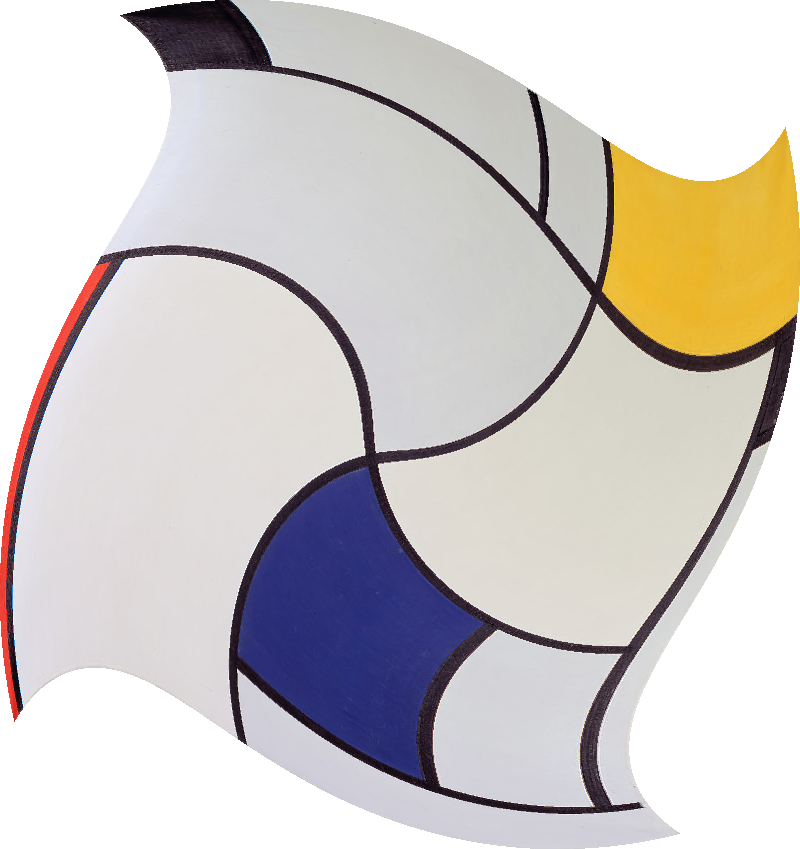
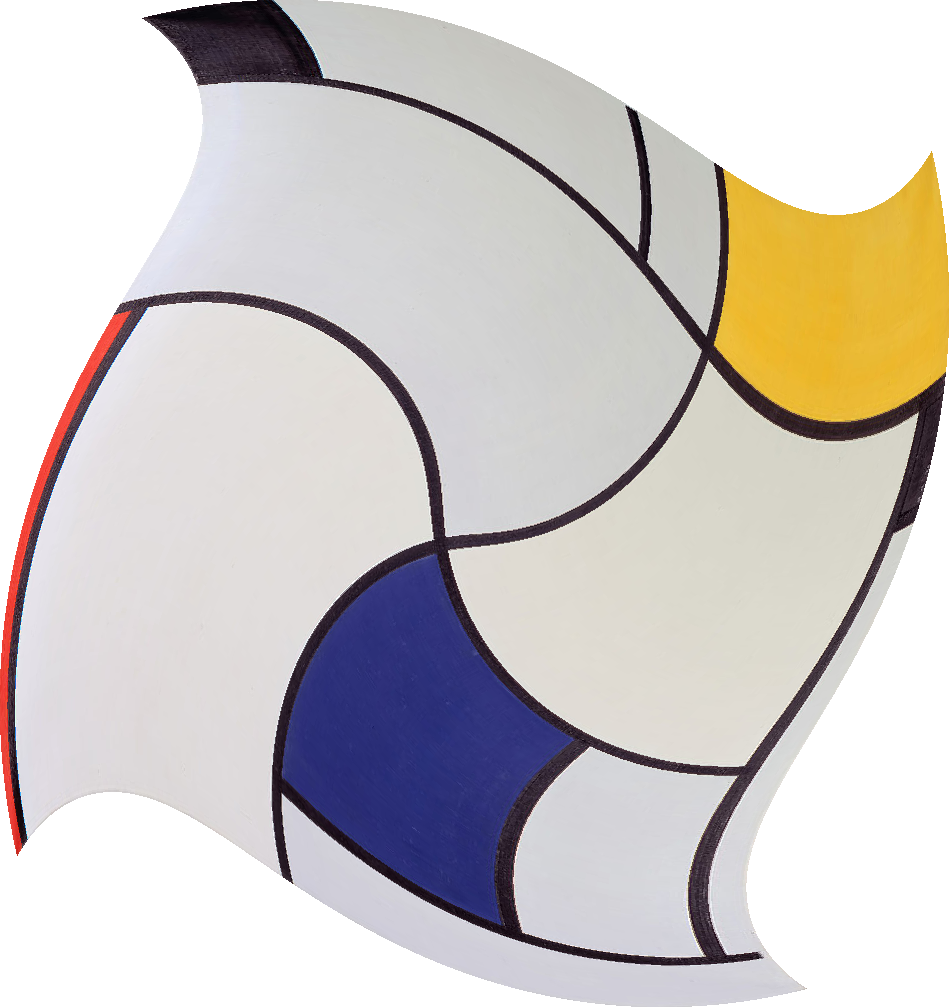
Modify wrapped image size.

diff --git a/wrap/wrap.cpp b/wrap/wrap.cpp
@@ -4,7 +4,6 @@ The program provide two types of wrap operation:
   mode 1 - stretch image: magnify the right side and minify the left side
   mode 2 - twirl image: increase the wrap parameter to enhance image twirling
 The default mode is twirl image with wrap parameter 2.
-The wrapped image size keep the same with the original one.
 
 Usage: 
 wrap input_image_name [output_image_name] [mode] [wrap_parameter]
@@ -51,17 +50,7 @@ wrap image
   mode 2 - twirl image
 */
 void wrapimage(int mode, double parameter)
-{
-  // xres_out = xres * pow(2.0, 0.5);
-  // yres_out = yres * pow(2.0, 0.5);
-  xres_out = xres;
-  yres_out = yres;  
-  
-  // allocate memory for output pixmap: output image is 4 channels
-  outputpixmap = new unsigned char [xres_out * yres_out * 4];
-  // fill the output image with a clear transparent color(0, 0, 0, 0)
-  for (int i = 0; i < xres_out * yres_out * 4; i++) {outputpixmap[i] = 0;} 
-  
+{ 
   // twirl image transformation parameters
   double twirl_f = parameter;
 
@@ -86,6 +75,8 @@ void wrapimage(int mode, double parameter)
       switch (mode)
       {
         case 1:
+          scale_factor_x = 1;
+          scale_factor_y = 1;
           break;
         case 2:
           // wrap function 2: twirl image
@@ -109,6 +100,14 @@ void wrapimage(int mode, double parameter)
   scale_factor_x = x_max - x_min;
   scale_factor_y = y_max - y_min;
 
+  // modify the output image size
+  xres_out = xres * scale_factor_x;
+  yres_out = yres * scale_factor_y;
+  // allocate memory for output pixmap: output image is 4 channels
+  outputpixmap = new unsigned char [xres_out * yres_out * 4];
+  // fill the output image with a clear transparent color(0, 0, 0, 0)
+  for (int i = 0; i < xres_out * yres_out * 4; i++) {outputpixmap[i] = 0;} 
+
   // inverse map
   double x, y, u, v;
   for (int row_out = 0; row_out < yres_out; row_out++)  // output row
@@ -126,7 +125,7 @@ void wrapimage(int mode, double parameter)
         case 1:
           // wrap fuction 1
           u = pow(x, 0.25);
-          v = pow((sin(M_PI * y / 2)), 2.0);
+          v = pow((sin(M_PI * y / 2)), 2.0);         
           break;
         case 2:
           // wrap fuction 2: twirl image
